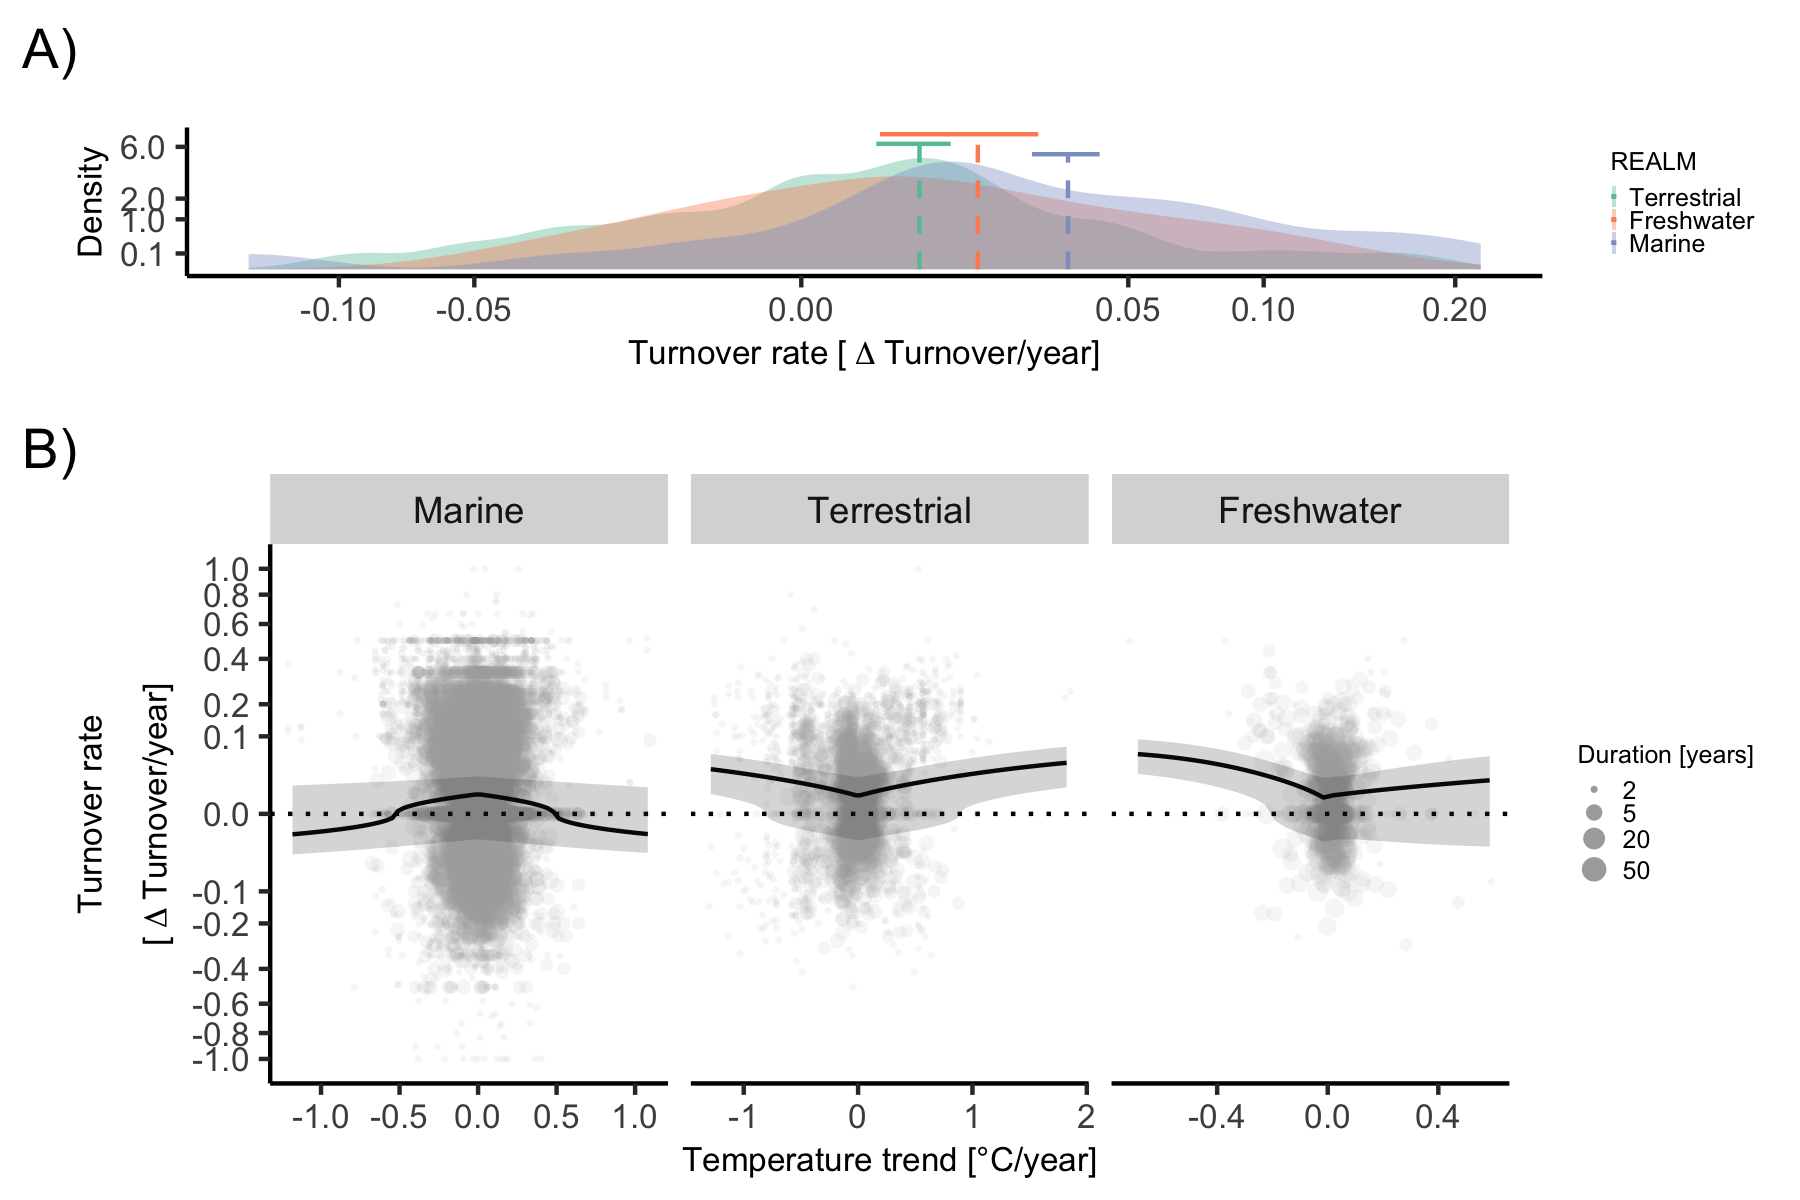
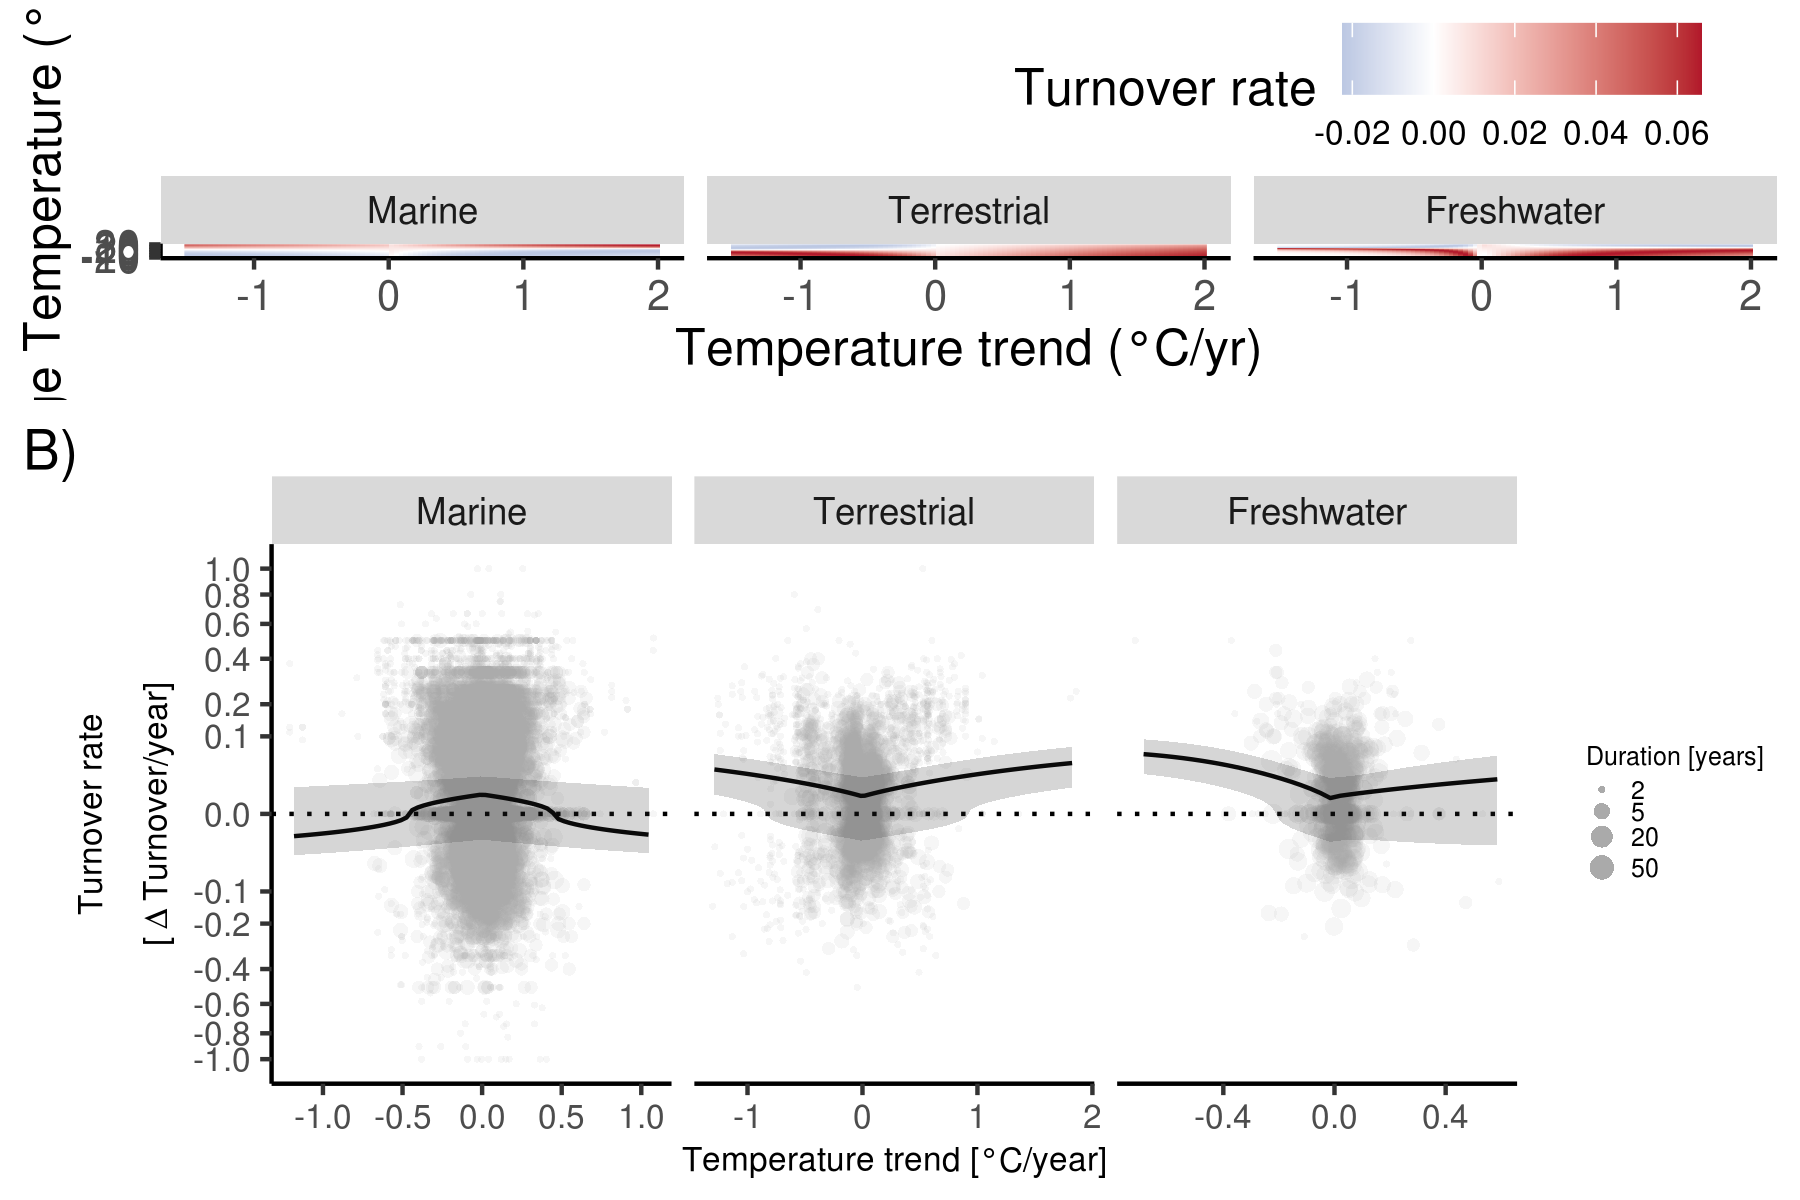
Update Fig. 2 and S4. Move more functions to util.R. Fix column names in code that uses new slope predictions.

diff --git a/code/README.md b/code/README.md
@@ -62,8 +62,6 @@ The code is organized in five main steps:
 - pred_GLMMmodrawTsdTTRealmCovariateAllJtu.R
 - pred_GLMMmodrawTsdTTRealmmicroclimhumanAllJtu.R
 - pred_GLMMmodrawTsdTTRealmthermal_biasAllJtu.R
-- pred_GLMMmodrawTsdTTRealmtsignAllHorn.R
-- pred_GLMMmodrawTsdTTRealmtsignAllJtu.R
 - pred_GLMMmodrawXAllHorn.R
 - pred_GLMMmodrawXAllJtu.R
 - pred_modrawXAllHorn.sh
